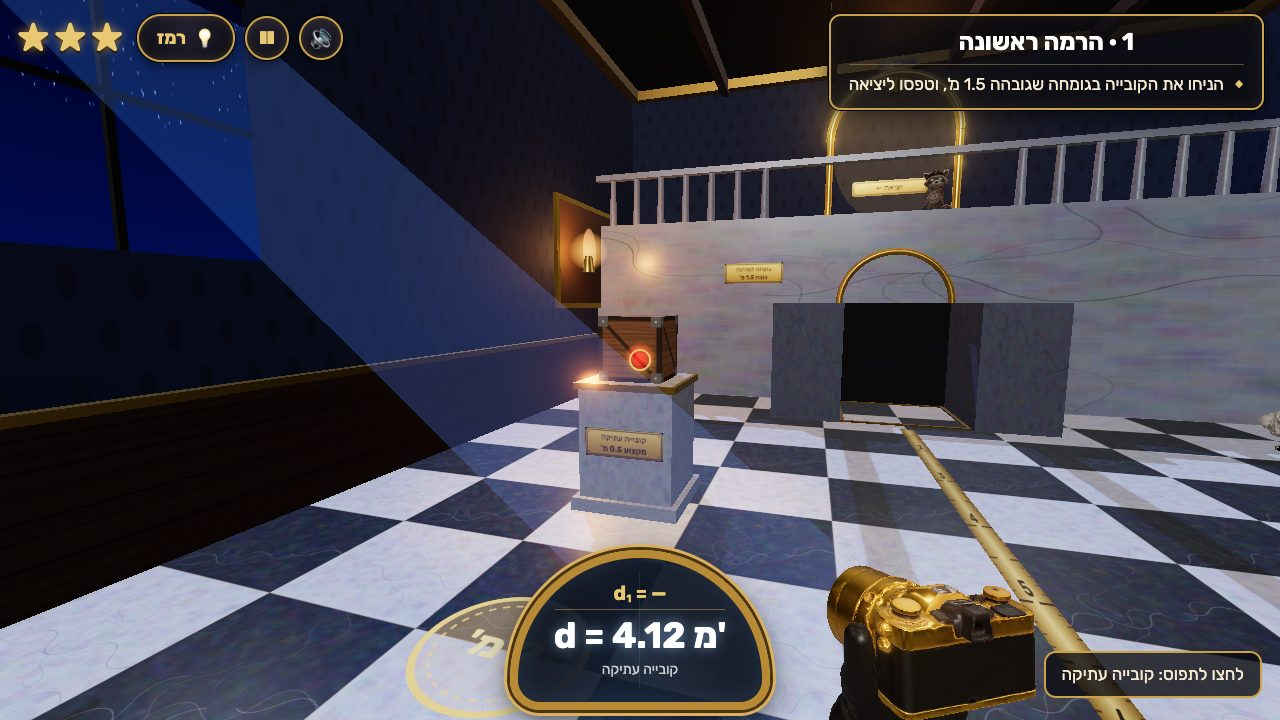
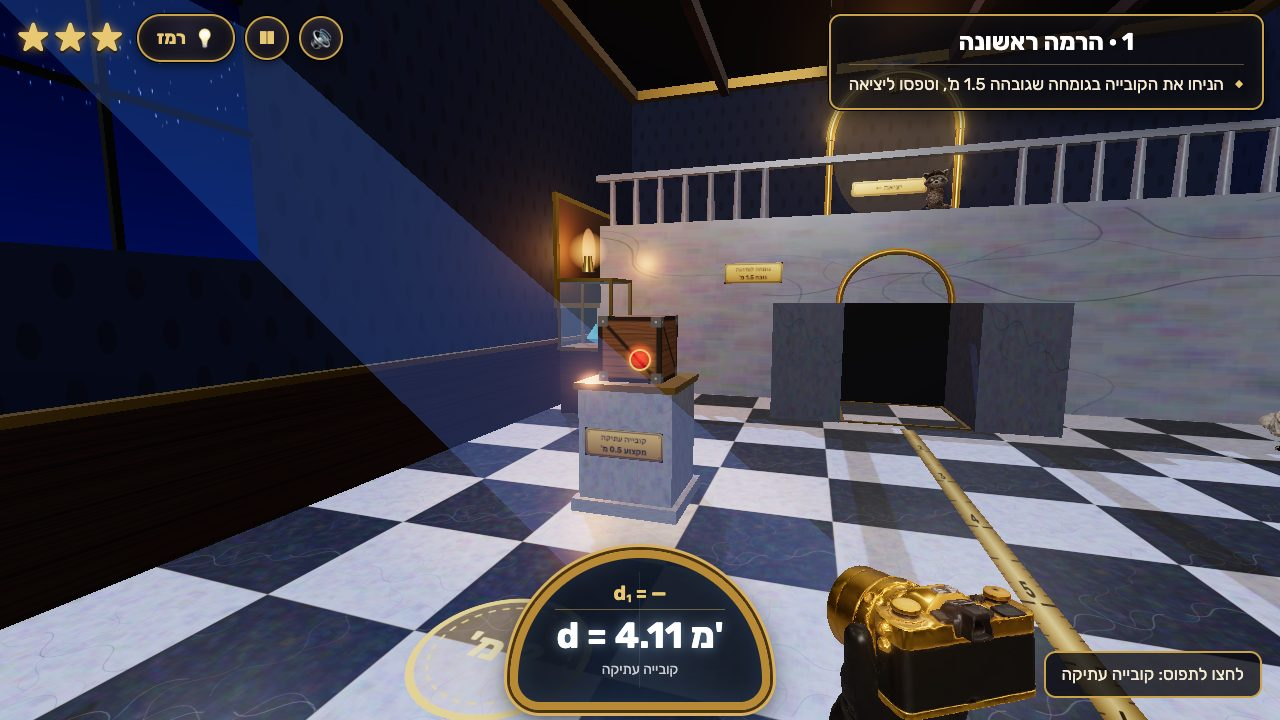
Warmer Hall of Shadows floor; refreshed captures

diff --git a/src/world.ts b/src/world.ts
@@ -316,7 +316,7 @@ export function buildLevel(level: Level): LevelView {
   const fTex = floorTexture(R.theme).clone();
   fTex.wrapS = fTex.wrapT = THREE.RepeatWrapping;
   fTex.needsUpdate = true;
-  const floorMat = new THREE.MeshStandardMaterial({ map: fTex, roughness: roof ? 0.6 : 0.32, metalness: 0.05, envMapIntensity: 1.0 });
+  const floorMat = new THREE.MeshStandardMaterial({ map: fTex, color: R.theme === 'shadows' ? '#a08a6c' : '#ffffff', roughness: roof ? 0.6 : 0.32, metalness: 0.05, envMapIntensity: 1.0 });
   const floorRects: [number, number, number, number][] = [];
   const pits = R.pits ?? [];
   if (pits.length) {

diff --git a/docs/VISUAL_REVIEW.md b/docs/VISUAL_REVIEW.md
@@ -39,13 +39,13 @@ Real sequence on level 12: grab the painting at d₁ = 1.20 m, drop at d = 10.80
 
 ## Other captures
 
-- `06-shadows.jpg` — Hall of Shadows: real directional shadows from a single low lamp at atan(1.6/2) = 38.66°; the 7.2 m Tripo statue's shadow runs along its floor ruler; the crown glows on top. **Deviation:** the hall is brighter than "dark amber"; the mannequin's thin shadow is hard to read from the spawn point (you have to walk to its ruler).
+- `06-shadows.jpg` — Hall of Shadows: warm amber floor, real directional shadows from a single low brass lamp at atan(1.6/2) = 38.66°; the 7.2 m Tripo statue's shadow runs along its floor ruler; the crown glows on top; display cases line the walls. **Deviation:** the mannequin's thin shadow is hard to read from the spawn point (walk to its ruler).
 - `18-rooftop.jpg`, `18-finale-solved.jpg` — dawn rooftop, patrol guard with a visible flashlight cone, upright sarcophagi as hide spots, 9 m tower. **Deviation:** the city backdrop is plain boxes.
 - `01-mobile.jpg` — 390 × 844 touch: compact HUD, full-width objective panel, bezel bottom-centre, big "תפסו" button bottom-right, prompt above it, no overlaps.
 
 ## Remaining honest gaps
 
-1. Prop density and set dressing are below the mockups (fewer display cases, plainer ceilings and city).
+1. Set dressing is still lighter than the mockups (display cases now line the walls, but ceilings and the rooftop city are plain).
 2. The lens view model reads as a camera.
 3. Hall of Shadows could be darker and moodier.
 4. These are automated captures; nobody has judged them on a real phone or a classroom screen yet.
